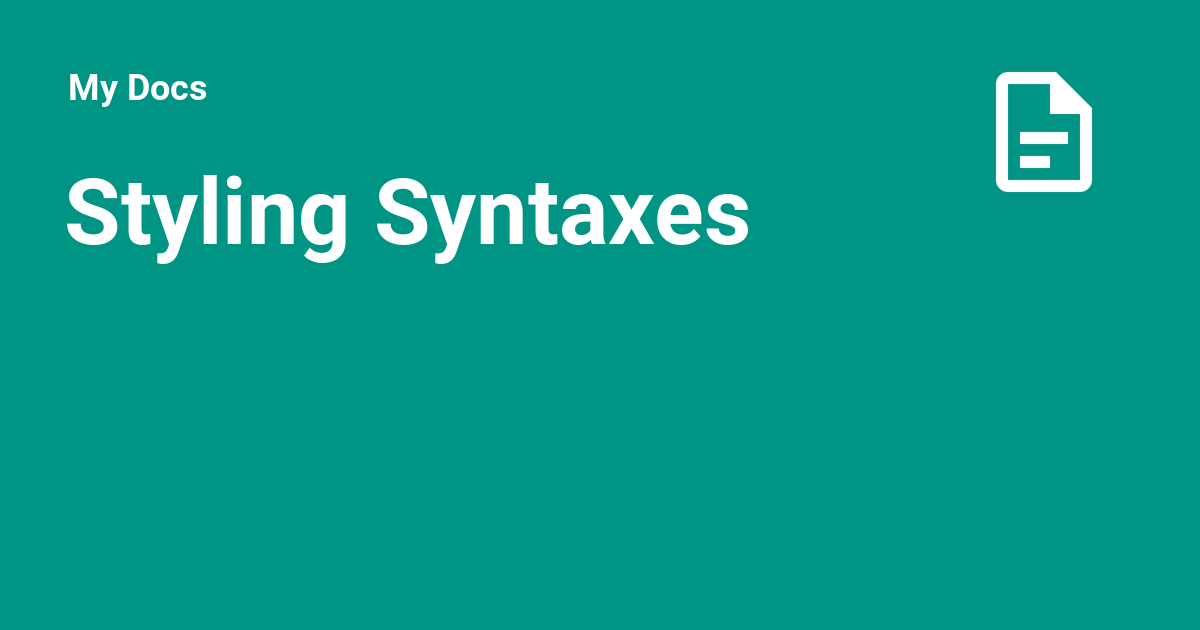
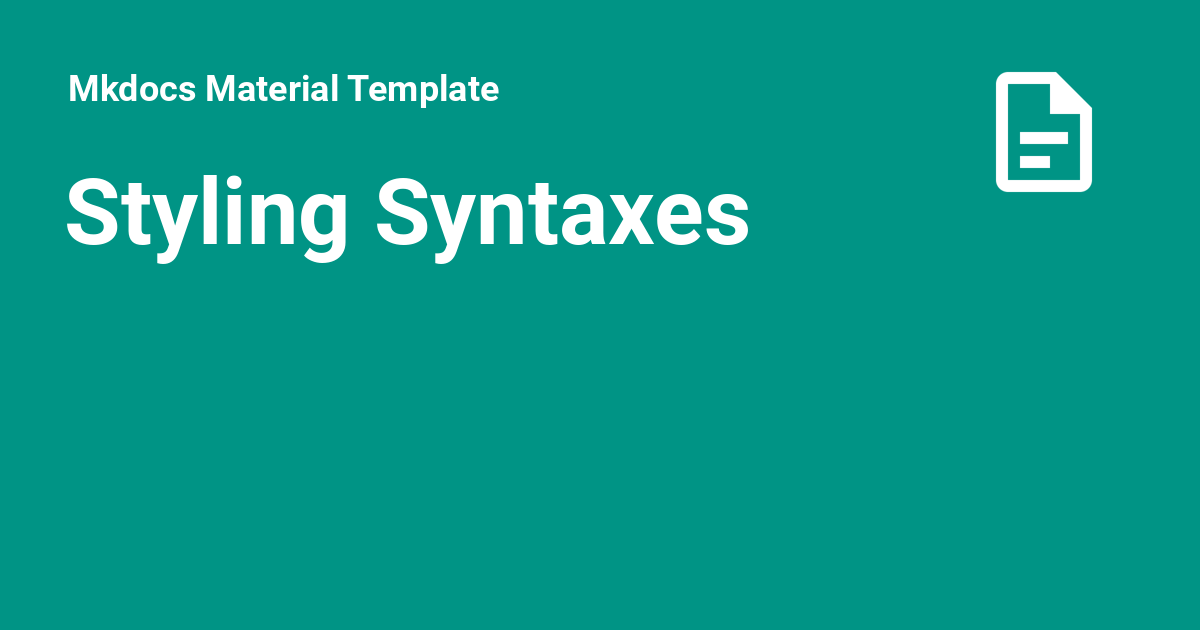
Deployed fa3ba16 with MkDocs version: 1.4.2

Changed region(s): [[0.0617, 0.1206, 0.4317, 0.181]]

diff --git a/dlbook-notations/index.html b/dlbook-notations/index.html
@@ -20,7 +20,7 @@
     
     
       
-        <title>DL Book Notations - My Docs</title>
+        <title>DL Book Notations - Mkdocs Material Template</title>
       
     
     
@@ -52,7 +52,7 @@
       
         <meta  property="og:type"  content="website" >
       
-        <meta  property="og:title"  content="DL Book Notations - My Docs" >
+        <meta  property="og:title"  content="DL Book Notations - Mkdocs Material Template" >
       
         <meta  property="og:description"  content="None" >
       
@@ -68,7 +68,7 @@
       
         <meta  name="twitter:card"  content="summary_large_image" >
       
-        <meta  name="twitter:title"  content="DL Book Notations - My Docs" >
+        <meta  name="twitter:title"  content="DL Book Notations - Mkdocs Material Template" >
       
         <meta  name="twitter:description"  content="None" >
       
@@ -113,7 +113,7 @@
 
 <header class="md-header" data-md-component="header">
   <nav class="md-header__inner md-grid" aria-label="Header">
-    <a href=".." title="My Docs" class="md-header__button md-logo" aria-label="My Docs" data-md-component="logo">
+    <a href=".." title="Mkdocs Material Template" class="md-header__button md-logo" aria-label="Mkdocs Material Template" data-md-component="logo">
       
   
   <svg xmlns="http://www.w3.org/2000/svg" viewBox="0 0 24 24"><path d="M6 2a2 2 0 0 0-2 2v16a2 2 0 0 0 2 2h12a2 2 0 0 0 2-2V8l-6-6H6m0 2h7v5h5v11H6V4m2 8v2h8v-2H8m0 4v2h5v-2H8Z"/></svg>
@@ -126,7 +126,7 @@
       <div class="md-header__ellipsis">
         <div class="md-header__topic">
           <span class="md-ellipsis">
-            My Docs
+            Mkdocs Material Template
           </span>
         </div>
         <div class="md-header__topic" data-md-component="header-topic">
@@ -789,13 +789,13 @@ $$
 
 <nav class="md-nav md-nav--primary md-nav--lifted" aria-label="Navigation" data-md-level="0">
   <label class="md-nav__title" for="__drawer">
-    <a href=".." title="My Docs" class="md-nav__button md-logo" aria-label="My Docs" data-md-component="logo">
+    <a href=".." title="Mkdocs Material Template" class="md-nav__button md-logo" aria-label="Mkdocs Material Template" data-md-component="logo">
       
   
   <svg xmlns="http://www.w3.org/2000/svg" viewBox="0 0 24 24"><path d="M6 2a2 2 0 0 0-2 2v16a2 2 0 0 0 2 2h12a2 2 0 0 0 2-2V8l-6-6H6m0 2h7v5h5v11H6V4m2 8v2h8v-2H8m0 4v2h5v-2H8Z"/></svg>
 
     </a>
-    My Docs
+    Mkdocs Material Template
   </label>
   
     <div class="md-nav__source">

diff --git a/styling-syntaxes/index.html b/styling-syntaxes/index.html
@@ -20,7 +20,7 @@
     
     
       
-        <title>Styling Syntaxes - My Docs</title>
+        <title>Styling Syntaxes - Mkdocs Material Template</title>
       
     
     
@@ -52,7 +52,7 @@
       
         <meta  property="og:type"  content="website" >
       
-        <meta  property="og:title"  content="Styling Syntaxes - My Docs" >
+        <meta  property="og:title"  content="Styling Syntaxes - Mkdocs Material Template" >
       
         <meta  property="og:description"  content="None" >
       
@@ -68,7 +68,7 @@
       
         <meta  name="twitter:card"  content="summary_large_image" >
       
-        <meta  name="twitter:title"  content="Styling Syntaxes - My Docs" >
+        <meta  name="twitter:title"  content="Styling Syntaxes - Mkdocs Material Template" >
       
         <meta  name="twitter:description"  content="None" >
       
@@ -113,7 +113,7 @@
 
 <header class="md-header" data-md-component="header">
   <nav class="md-header__inner md-grid" aria-label="Header">
-    <a href=".." title="My Docs" class="md-header__button md-logo" aria-label="My Docs" data-md-component="logo">
+    <a href=".." title="Mkdocs Material Template" class="md-header__button md-logo" aria-label="Mkdocs Material Template" data-md-component="logo">
       
   
   <svg xmlns="http://www.w3.org/2000/svg" viewBox="0 0 24 24"><path d="M6 2a2 2 0 0 0-2 2v16a2 2 0 0 0 2 2h12a2 2 0 0 0 2-2V8l-6-6H6m0 2h7v5h5v11H6V4m2 8v2h8v-2H8m0 4v2h5v-2H8Z"/></svg>
@@ -126,7 +126,7 @@
       <div class="md-header__ellipsis">
         <div class="md-header__topic">
           <span class="md-ellipsis">
-            My Docs
+            Mkdocs Material Template
           </span>
         </div>
         <div class="md-header__topic" data-md-component="header-topic">
@@ -268,13 +268,13 @@
 
 <nav class="md-nav md-nav--primary md-nav--lifted" aria-label="Navigation" data-md-level="0">
   <label class="md-nav__title" for="__drawer">
-    <a href=".." title="My Docs" class="md-nav__button md-logo" aria-label="My Docs" data-md-component="logo">
+    <a href=".." title="Mkdocs Material Template" class="md-nav__button md-logo" aria-label="Mkdocs Material Template" data-md-component="logo">
       
   
   <svg xmlns="http://www.w3.org/2000/svg" viewBox="0 0 24 24"><path d="M6 2a2 2 0 0 0-2 2v16a2 2 0 0 0 2 2h12a2 2 0 0 0 2-2V8l-6-6H6m0 2h7v5h5v11H6V4m2 8v2h8v-2H8m0 4v2h5v-2H8Z"/></svg>
 
     </a>
-    My Docs
+    Mkdocs Material Template
   </label>
   
     <div class="md-nav__source">

diff --git a/index.html b/index.html
@@ -18,7 +18,7 @@
     
     
       
-        <title>Index - My Docs</title>
+        <title>Index - Mkdocs Material Template</title>
       
     
     
@@ -50,7 +50,7 @@
       
         <meta  property="og:type"  content="website" >
       
-        <meta  property="og:title"  content="Index - My Docs" >
+        <meta  property="og:title"  content="Index - Mkdocs Material Template" >
       
         <meta  property="og:description"  content="None" >
       
@@ -66,7 +66,7 @@
       
         <meta  name="twitter:card"  content="summary_large_image" >
       
-        <meta  name="twitter:title"  content="Index - My Docs" >
+        <meta  name="twitter:title"  content="Index - Mkdocs Material Template" >
       
         <meta  name="twitter:description"  content="None" >
       
@@ -111,7 +111,7 @@
 
 <header class="md-header" data-md-component="header">
   <nav class="md-header__inner md-grid" aria-label="Header">
-    <a href="." title="My Docs" class="md-header__button md-logo" aria-label="My Docs" data-md-component="logo">
+    <a href="." title="Mkdocs Material Template" class="md-header__button md-logo" aria-label="Mkdocs Material Template" data-md-component="logo">
       
   
   <svg xmlns="http://www.w3.org/2000/svg" viewBox="0 0 24 24"><path d="M6 2a2 2 0 0 0-2 2v16a2 2 0 0 0 2 2h12a2 2 0 0 0 2-2V8l-6-6H6m0 2h7v5h5v11H6V4m2 8v2h8v-2H8m0 4v2h5v-2H8Z"/></svg>
@@ -124,7 +124,7 @@
       <div class="md-header__ellipsis">
         <div class="md-header__topic">
           <span class="md-ellipsis">
-            My Docs
+            Mkdocs Material Template
           </span>
         </div>
         <div class="md-header__topic" data-md-component="header-topic">
@@ -266,13 +266,13 @@
 
 <nav class="md-nav md-nav--primary md-nav--lifted" aria-label="Navigation" data-md-level="0">
   <label class="md-nav__title" for="__drawer">
-    <a href="." title="My Docs" class="md-nav__button md-logo" aria-label="My Docs" data-md-component="logo">
+    <a href="." title="Mkdocs Material Template" class="md-nav__button md-logo" aria-label="Mkdocs Material Template" data-md-component="logo">
       
   
   <svg xmlns="http://www.w3.org/2000/svg" viewBox="0 0 24 24"><path d="M6 2a2 2 0 0 0-2 2v16a2 2 0 0 0 2 2h12a2 2 0 0 0 2-2V8l-6-6H6m0 2h7v5h5v11H6V4m2 8v2h8v-2H8m0 4v2h5v-2H8Z"/></svg>
 
     </a>
-    My Docs
+    Mkdocs Material Template
   </label>
   
     <div class="md-nav__source">

diff --git a/tags/index.html b/tags/index.html
@@ -18,7 +18,7 @@
     
     
       
-        <title>Tags - My Docs</title>
+        <title>Tags - Mkdocs Material Template</title>
       
     
     
@@ -50,7 +50,7 @@
       
         <meta  property="og:type"  content="website" >
       
-        <meta  property="og:title"  content="Tags - My Docs" >
+        <meta  property="og:title"  content="Tags - Mkdocs Material Template" >
       
         <meta  property="og:description"  content="None" >
       
@@ -66,7 +66,7 @@
       
         <meta  name="twitter:card"  content="summary_large_image" >
       
-        <meta  name="twitter:title"  content="Tags - My Docs" >
+        <meta  name="twitter:title"  content="Tags - Mkdocs Material Template" >
       
         <meta  name="twitter:description"  content="None" >
       
@@ -111,7 +111,7 @@
 
 <header class="md-header" data-md-component="header">
   <nav class="md-header__inner md-grid" aria-label="Header">
-    <a href=".." title="My Docs" class="md-header__button md-logo" aria-label="My Docs" data-md-component="logo">
+    <a href=".." title="Mkdocs Material Template" class="md-header__button md-logo" aria-label="Mkdocs Material Template" data-md-component="logo">
       
   
   <svg xmlns="http://www.w3.org/2000/svg" viewBox="0 0 24 24"><path d="M6 2a2 2 0 0 0-2 2v16a2 2 0 0 0 2 2h12a2 2 0 0 0 2-2V8l-6-6H6m0 2h7v5h5v11H6V4m2 8v2h8v-2H8m0 4v2h5v-2H8Z"/></svg>
@@ -124,7 +124,7 @@
       <div class="md-header__ellipsis">
         <div class="md-header__topic">
           <span class="md-ellipsis">
-            My Docs
+            Mkdocs Material Template
           </span>
         </div>
         <div class="md-header__topic" data-md-component="header-topic">
@@ -266,13 +266,13 @@
 
 <nav class="md-nav md-nav--primary md-nav--lifted" aria-label="Navigation" data-md-level="0">
   <label class="md-nav__title" for="__drawer">
-    <a href=".." title="My Docs" class="md-nav__button md-logo" aria-label="My Docs" data-md-component="logo">
+    <a href=".." title="Mkdocs Material Template" class="md-nav__button md-logo" aria-label="Mkdocs Material Template" data-md-component="logo">
       
   
   <svg xmlns="http://www.w3.org/2000/svg" viewBox="0 0 24 24"><path d="M6 2a2 2 0 0 0-2 2v16a2 2 0 0 0 2 2h12a2 2 0 0 0 2-2V8l-6-6H6m0 2h7v5h5v11H6V4m2 8v2h8v-2H8m0 4v2h5v-2H8Z"/></svg>
 
     </a>
-    My Docs
+    Mkdocs Material Template
   </label>
   
     <div class="md-nav__source">

diff --git a/404.html b/404.html
@@ -16,7 +16,7 @@
     
     
       
-        <title>My Docs</title>
+        <title>Mkdocs Material Template</title>
       
     
     
@@ -78,7 +78,7 @@
 
 <header class="md-header" data-md-component="header">
   <nav class="md-header__inner md-grid" aria-label="Header">
-    <a href="/." title="My Docs" class="md-header__button md-logo" aria-label="My Docs" data-md-component="logo">
+    <a href="/." title="Mkdocs Material Template" class="md-header__button md-logo" aria-label="Mkdocs Material Template" data-md-component="logo">
       
   
   <svg xmlns="http://www.w3.org/2000/svg" viewBox="0 0 24 24"><path d="M6 2a2 2 0 0 0-2 2v16a2 2 0 0 0 2 2h12a2 2 0 0 0 2-2V8l-6-6H6m0 2h7v5h5v11H6V4m2 8v2h8v-2H8m0 4v2h5v-2H8Z"/></svg>
@@ -91,7 +91,7 @@
       <div class="md-header__ellipsis">
         <div class="md-header__topic">
           <span class="md-ellipsis">
-            My Docs
+            Mkdocs Material Template
           </span>
         </div>
         <div class="md-header__topic" data-md-component="header-topic">
@@ -231,13 +231,13 @@
 
 <nav class="md-nav md-nav--primary md-nav--lifted" aria-label="Navigation" data-md-level="0">
   <label class="md-nav__title" for="__drawer">
-    <a href="/." title="My Docs" class="md-nav__button md-logo" aria-label="My Docs" data-md-component="logo">
+    <a href="/." title="Mkdocs Material Template" class="md-nav__button md-logo" aria-label="Mkdocs Material Template" data-md-component="logo">
       
   
   <svg xmlns="http://www.w3.org/2000/svg" viewBox="0 0 24 24"><path d="M6 2a2 2 0 0 0-2 2v16a2 2 0 0 0 2 2h12a2 2 0 0 0 2-2V8l-6-6H6m0 2h7v5h5v11H6V4m2 8v2h8v-2H8m0 4v2h5v-2H8Z"/></svg>
 
     </a>
-    My Docs
+    Mkdocs Material Template
   </label>
   
     <div class="md-nav__source">
